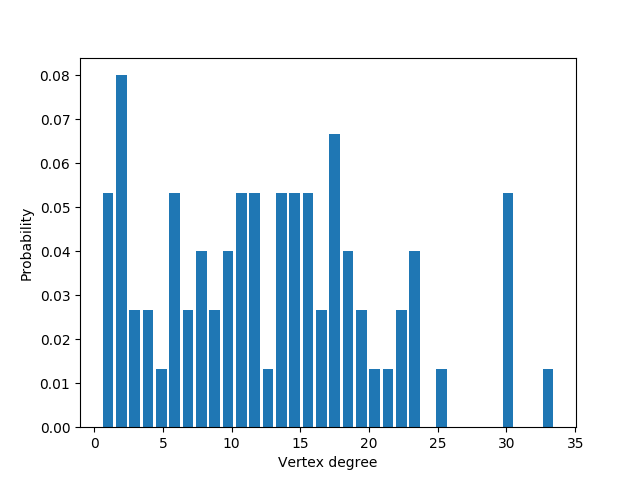
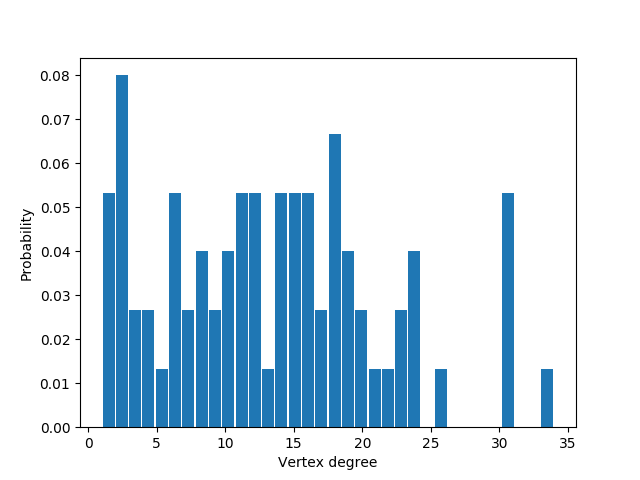
Third task. Made stupidly

diff --git a/component.py b/component.py
@@ -1,9 +1,9 @@
 from graph import Graph
-from networkx import *
+from networkx import DiGraph, read_gexf
 # Find Strongly Connected Components using Kosaraju's algorithm
 # Kosaraju's algorithm works as follows:
 #
-# Let G be a directed graph and S be an empty stack.
+# Let g be a directed graph and S be an empty stack.
 # While S does not contain all vertices:
 #   Choose an arbitrary vertex v not in S.
 #   Perform a depth-first search starting at v.
@@ -13,7 +13,7 @@ from networkx import *
 #   Pop the top vertex v from S.
 #   Perform a depth-first search starting at v in the transpose graph.
 #   The set of visited vertices will give the strongly connected component containing v;
-#   record this and remove all these vertices from the graph G and the stack S.
+#   record this and remove all these vertices from the graph g and the stack S.
 
 # Depth first search with postorder append to stack
 
@@ -27,16 +27,33 @@ def dfs(g, u, stack, explored):
     stack.append(u)
 
 
+def plain_bfs_directed(g, source):
+    gsucc = g.succ
+    gpred = g.pred
+
+    seen = set()
+    nextlevel = {source}
+    while nextlevel:
+        thislevel = nextlevel
+        nextlevel = set()
+        for v in thislevel:
+            if v not in seen:
+                yield v
+                seen.add(v)
+                nextlevel.update(gsucc[v])
+                nextlevel.update(gpred[v])
+                
+                
 def scc(g):
     explored = dict.fromkeys(g.graph_dict.keys(), 0)
     results = []
-    # Initial DFS on G
+    # Initial DFS on g
     search_stack = []
     for v, expl in explored.items():
         if not expl and v != list(explored.keys())[0]:
             dfs(g, v, search_stack, explored)
 
-    # Reverse Graph
+    # Reverse graph
     gr = g.reverse()
     exploredr = dict.fromkeys(g.graph_dict.keys(), 0)
     # DFS ordered by search_stack
@@ -53,5 +70,10 @@ def scc(g):
 
 
 def wcc(g):
-    g1 = DiGraph(read_gexf("vk-friends-164285180.gexf"))
-    return (g1.subgraph(c) for c in weakly_connected_components(g1))
+    g = DiGraph(read_gexf("vk-friends-164285180.gexf"))
+    seen = set()
+    for v in g:
+        if v not in seen:
+            c = set(plain_bfs_directed(g, v))
+            yield c
+            seen.update(c)

diff --git a/distance.py b/distance.py
@@ -1,0 +1,72 @@
+def single_source_shortest_path_length(G, source, cutoff=None):
+    if cutoff is None:
+        cutoff = float('inf')
+    nextlevel = {source: 1}
+    return dict(single_shortest_path_length(G.adj, nextlevel, cutoff))
+
+
+def single_shortest_path_length(adj, firstlevel, cutoff):
+    seen = {}
+    level = 0
+    nextlevel = firstlevel
+
+    while nextlevel and cutoff >= level:
+        thislevel = nextlevel
+        nextlevel = {}
+        for v in thislevel:
+            if v not in seen:
+                seen[v] = level
+                nextlevel.update(adj[v])
+                yield (v, level)
+        level += 1
+    del seen
+
+
+def eccentricity(G, v=None, sp=None):
+    e = {}
+    for n in G.nbunch_iter(v):
+        if sp is None:
+            length = single_source_shortest_path_length(G, n)
+        else:
+            length = sp[n]
+
+        e[n] = max(length.values())
+
+    if v in G:
+        return e[v]
+    else:
+        return e
+
+
+def diameter(G, e=None):
+    if e is None:
+        e = eccentricity(G)
+    return max(e.values())
+
+
+def periphery(G, e=None):
+    if e is None:
+        e = eccentricity(G)
+    diameter = max(e.values())
+    p = [v for v in e if e[v] == diameter]
+    return p
+
+
+def radius(G, e=None):
+    if e is None:
+        e = eccentricity(G)
+    return min(e.values())
+
+
+def center(G, e=None):
+    if e is None:
+        e = eccentricity(G)
+    radius = min(e.values())
+    p = [v for v in e if e[v] == radius]
+    return p
+
+
+def average_shortest_path_length(G):
+    n = G.order()
+    s = sum(l for u in G for l in single_source_shortest_path_length(G, u).values())
+    return s / (n * (n - 1))

diff --git a/task2.py b/task2.py
@@ -1,27 +1,25 @@
 from graph import Graph
 import matplotlib.pyplot as plt
 import networkx as nx
+from collections import Counter
+from distance import diameter, radius, center, periphery, average_shortest_path_length
 
 
 def do_task2():
-    g = nx.read_adjlist("undir_graph.csv")
+    print("Task 2")
+    g = nx.read_gexf("undir_graph.gexf")
     d = dict(nx.degree(g, g.nodes))
     print(sorted(d.items(), key=lambda x: x[1], reverse=True))
     print("Average vertex degree:", sum(d.values())/len(d))
-    print("Diameter:", nx.diameter(g))
-    print("Radius:", nx.radius(g))
-    print("Center:", nx.center(g))
-    print("Periphery:", nx.periphery(g))
-    print("Average path length:", nx.average_shortest_path_length(g))
+    print("Diameter:", diameter(g))
+    print("Radius:", radius(g))
+    print("Center:", center(g))
+    print("Periphery:", periphery(g))
+    print("Average path length:", average_shortest_path_length(g))
 
-    degrees = {}
-    for node in g.nodes():
-        if g.degree(node) in degrees:
-            degrees[g.degree(node)] += 1
-        else:
-            degrees[g.degree(node)] = 1
-    plt.hist(degrees.keys(), bins=max(degrees.keys()), weights=[i / len(g.nodes()) for i in degrees.values()],
-             rwidth=0.8, align='left')
+    degrees = sorted([d for n, d in g.degree()], reverse=True)
+    degrees = Counter(degrees)
+    plt.hist(degrees.keys(), bins=max(degrees.keys()), weights=[i / len(g.nodes()) for i in degrees.values()], rwidth=0.9)
     plt.xlabel("Vertex degree")
     plt.ylabel("Probability")
     plt.savefig("hist.png")

diff --git a/similarity.py b/similarity.py
@@ -1,0 +1,34 @@
+from math import log
+
+
+def common_neighbors(g, u, v):
+    return set(g[u]) & set(g[v])
+
+
+def jaccard_coefficient(g, u, v):
+    union_size = len(set(g[u]) | set(g[v]))
+    if union_size == 0:
+        return 0
+    return len(set(g[u]) & set(g[v])) / union_size
+
+
+def adamic_adar_index(g, u, v):
+    return sum(1 / log(g.degree(w)) for w in set(g[u]) & set(g[v]))
+
+
+def preferential_attachment(g, u, v):
+    return g.degree(u) * g.degree(v)
+
+
+def plain_bfs_undirected(g, source):
+    g_adj = g.adj
+    seen = set()
+    nextlevel = {source}
+    while nextlevel:
+        thislevel = nextlevel
+        nextlevel = set()
+        for v in thislevel:
+            if v not in seen:
+                yield v
+                seen.add(v)
+                nextlevel.update(g_adj[v])

diff --git a/taks3.py b/taks3.py
@@ -1,0 +1,13 @@
+import networkx as nx
+from similarity import common_neighbors, jaccard_coefficient, adamic_adar_index, preferential_attachment
+
+
+def do_task3():
+    print("Task 3")
+    graph = nx.read_gexf("undir_graph.gexf")
+    x, y = list(graph)[4], list(graph)[17]
+
+    print(len(common_neighbors(graph, x, y)))
+    print(jaccard_coefficient(graph, x, y))
+    print(adamic_adar_index(graph, x, y))
+    print(preferential_attachment(graph, x, y))

diff --git a/main.py b/main.py
@@ -1,5 +1,9 @@
 from task1 import do_task1
 from task2 import do_task2
+from taks3 import do_task3
 from graph import Graph
+
+
 do_task1()
 do_task2()
+do_task3()

diff --git a/task1.py b/task1.py
@@ -3,6 +3,7 @@ from component import wcc, scc
 
 
 def do_task1():
+    print("Task 1")
     g = Graph()
     g.read_adj_list(filename="graph_list.csv")
 
